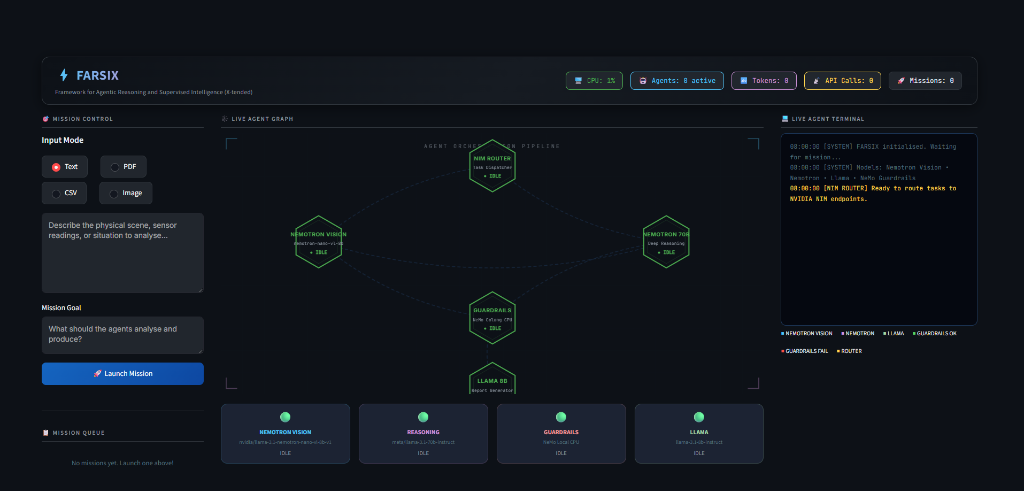
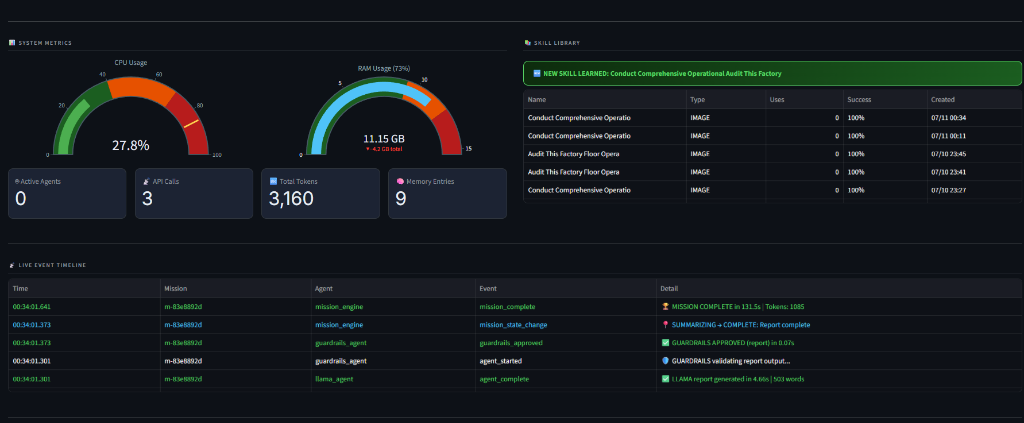
Update correct images and fix video link

diff --git a/README.md b/README.md
@@ -3,7 +3,7 @@
   <p><b>Advanced Agentic Reasoning and Supervised Intelligence Framework</b></p>
 
   <!-- Autoplaying Demo Video -->
-  <video src="docs/assets/demo.mp4" autoplay loop muted playsinline width="100%"></video>
+  <video src="https://raw.githubusercontent.com/imFARSI/FARSIX-Deterministic-VLA-Orchestrator/master/docs/assets/demo.mp4" autoplay loop muted playsinline width="100%"></video>
 </div>
 
 ---